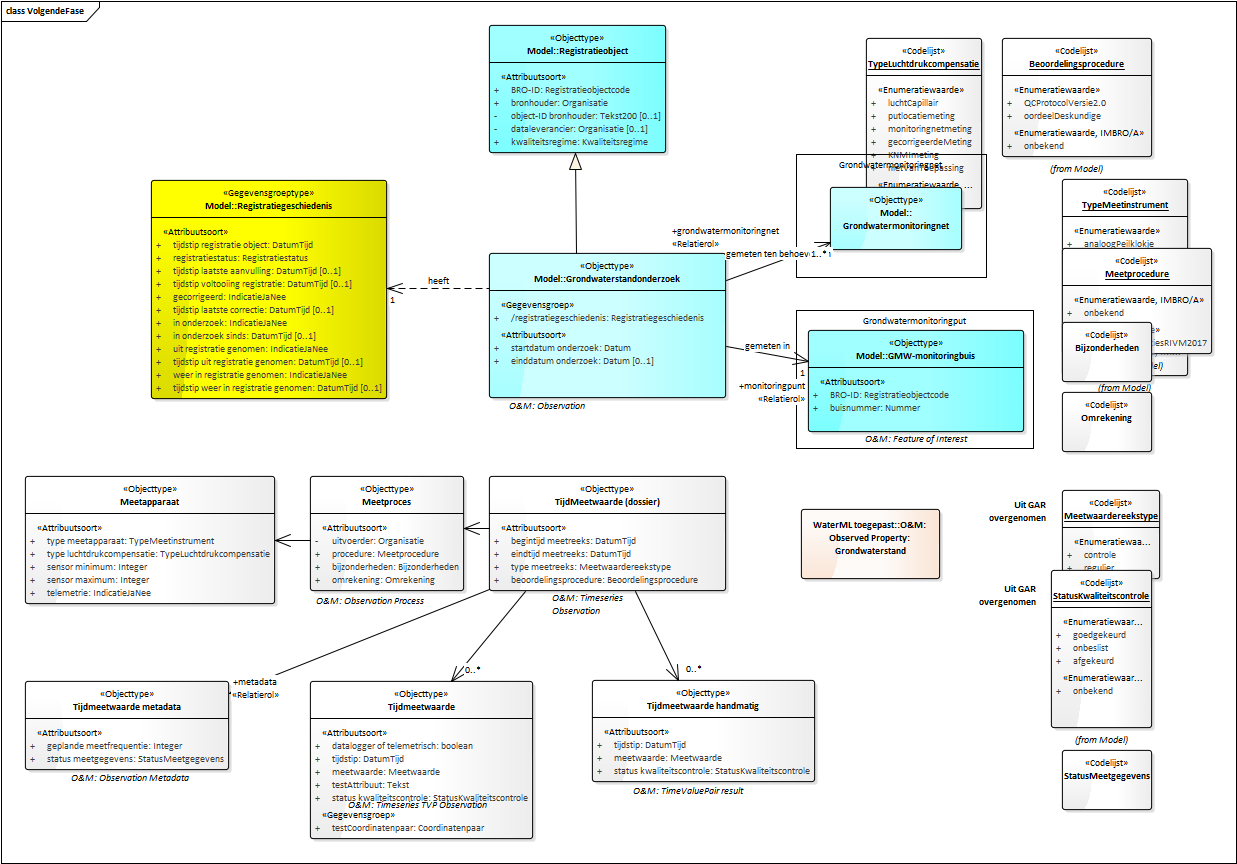
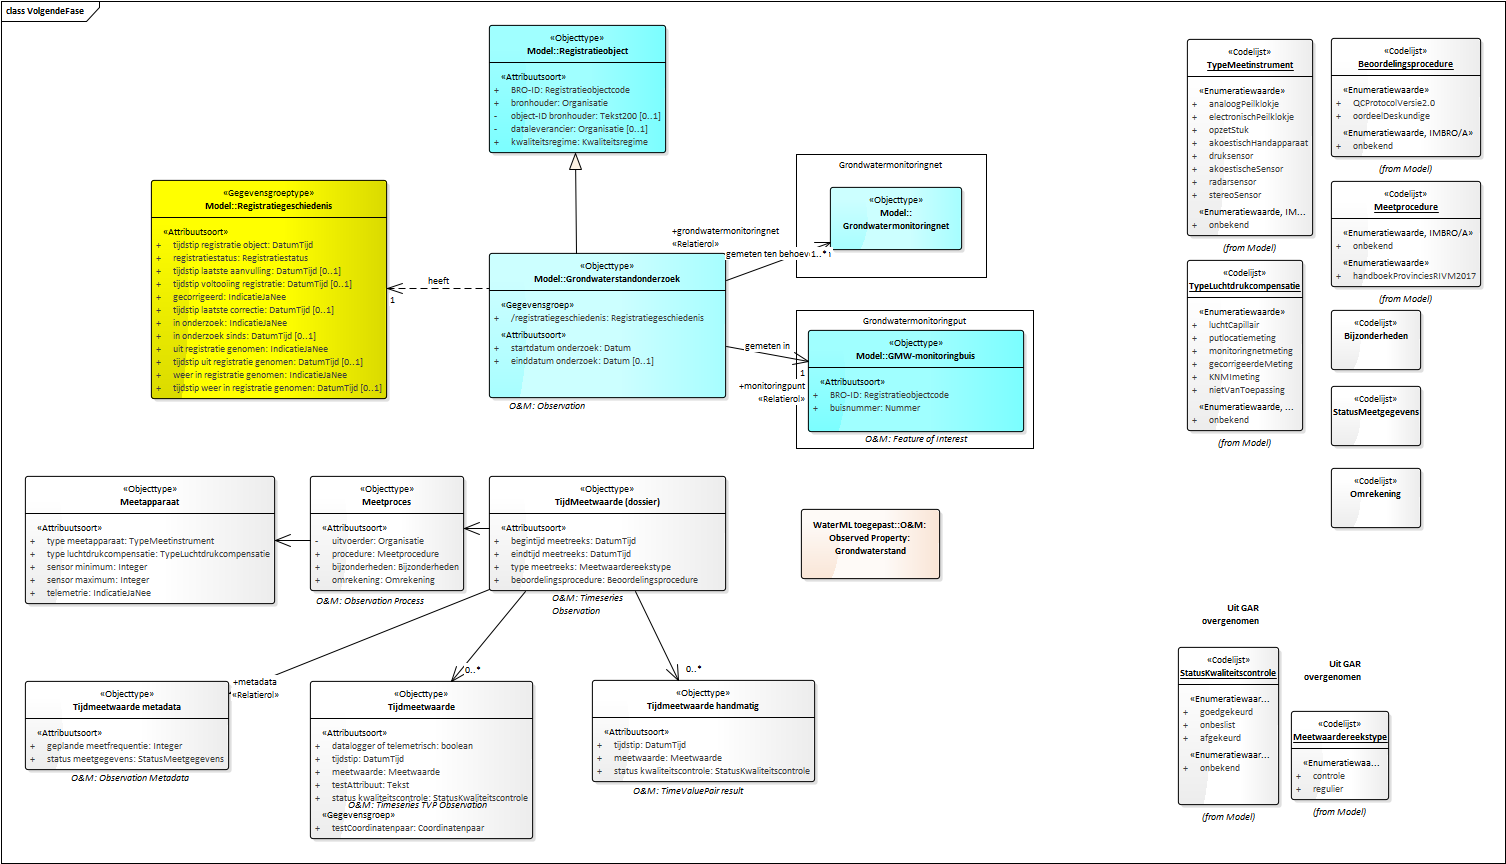
Conceptualmodel-GrondwaterstandonderzoekGLD-0.9-3-20191003-20191007-155609

diff --git a/data/GLD-cat.msword.html b/data/GLD-cat.msword.html
@@ -13,7 +13,7 @@
    <body>
       <p>Conceptual model/Grondwaterstandonderzoek (GLD)/20191003</p>
       <p>Imvertor: 1.55.2</p>
-      <p>Model release: Conceptualmodel-GrondwaterstandonderzoekGLD-0.9-3-20191003-20191007-154912</p>
+      <p>Model release: Conceptualmodel-GrondwaterstandonderzoekGLD-0.9-3-20191003-20191007-155609</p>
       <hr>
       <section id="global_class_Model_Registratieobject" level="3">
          <h1>Artikel 1     Registratieobject</h1>
@@ -76,7 +76,7 @@
                         gemeten in 1 
                         <a class="link" href="#global_class_Model_GMWMonitoringbuis">GMW-monitoringbuis</a>
                         <br>Grondwaterstandonderzoek 
-                        tijdMeetwaarde waarneming 0, 1 of meer 
+                        tijdMeetwaardeWaarneming 0, 1 of meer 
                         <a class="link" href="#global_class_Model_TijdMeetwaardeWaarneming">TijdMeetwaardeWaarneming</a>
                         <br>Grondwaterstandonderzoek 
                         registratiegeschiedenis 1 
@@ -1867,7 +1867,7 @@
                         <br>
                         <a class="link" href="#global_class_Model_Grondwaterstandonderzoek">Grondwaterstandonderzoek</a>
                         
-                        tijdMeetwaarde waarneming 0, 1 of meer TijdMeetwaardeWaarneming<br></td>
+                        tijdMeetwaardeWaarneming 0, 1 of meer TijdMeetwaardeWaarneming<br></td>
                   </tr>
                </tbody>
             </table><a class="anchor" name="detail_attribute_Model_TijdMeetwaardeWaarneming_iD"></a><section id="detail_attribute_Model_TijdMeetwaardeWaarneming_iD" level="5">
